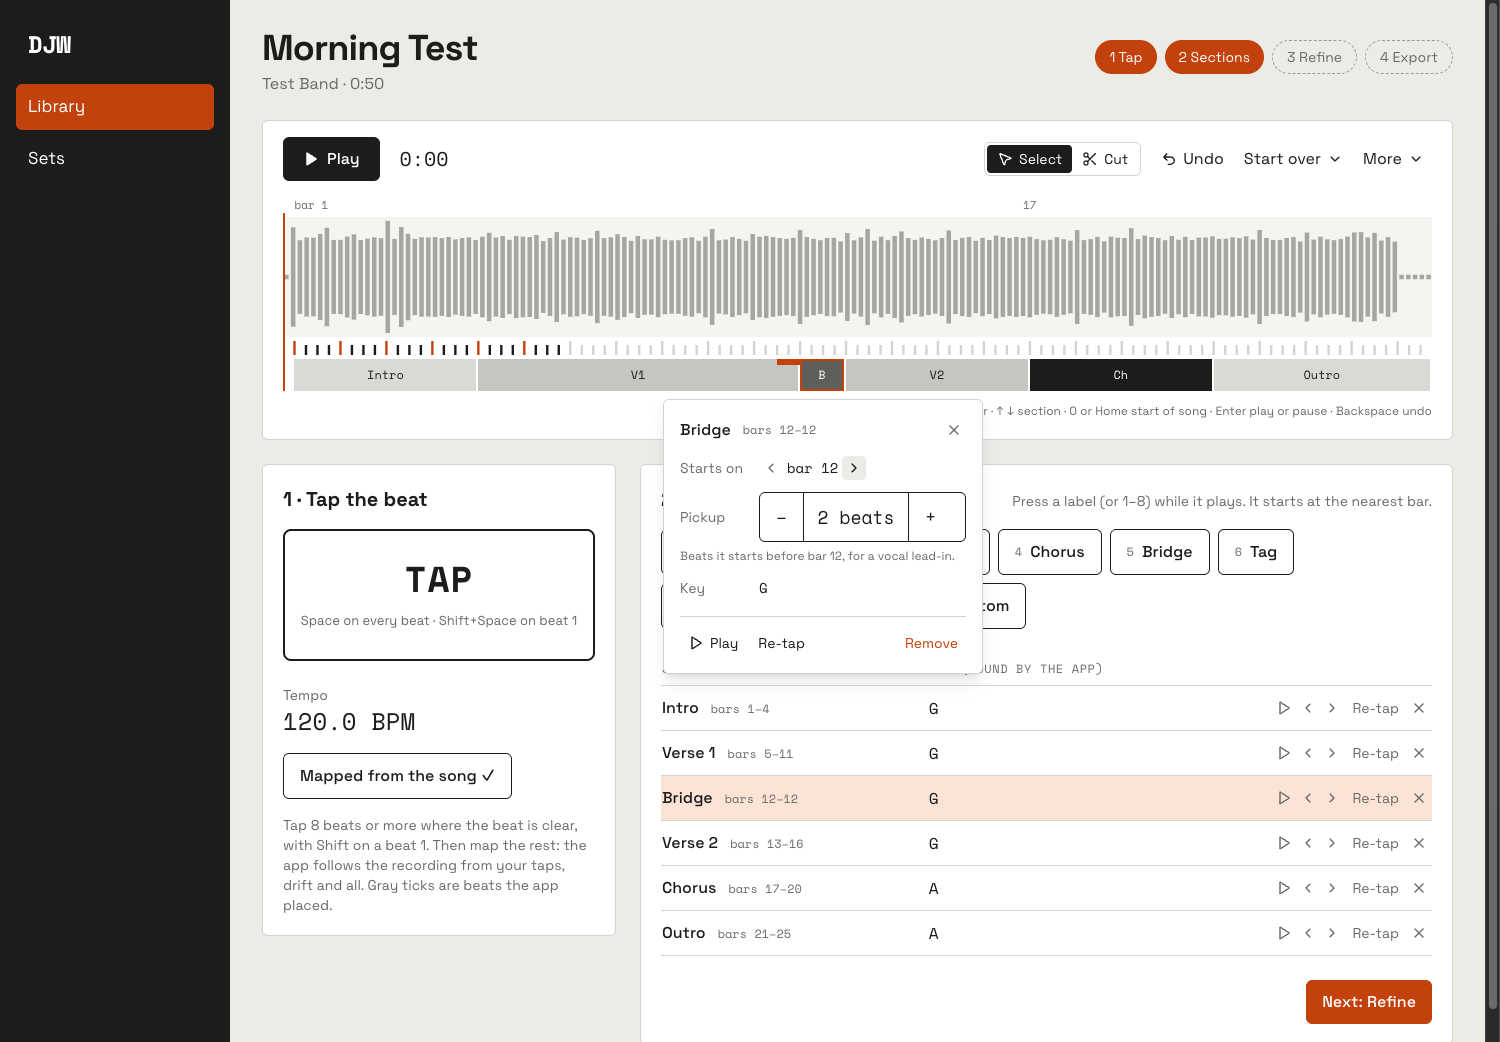
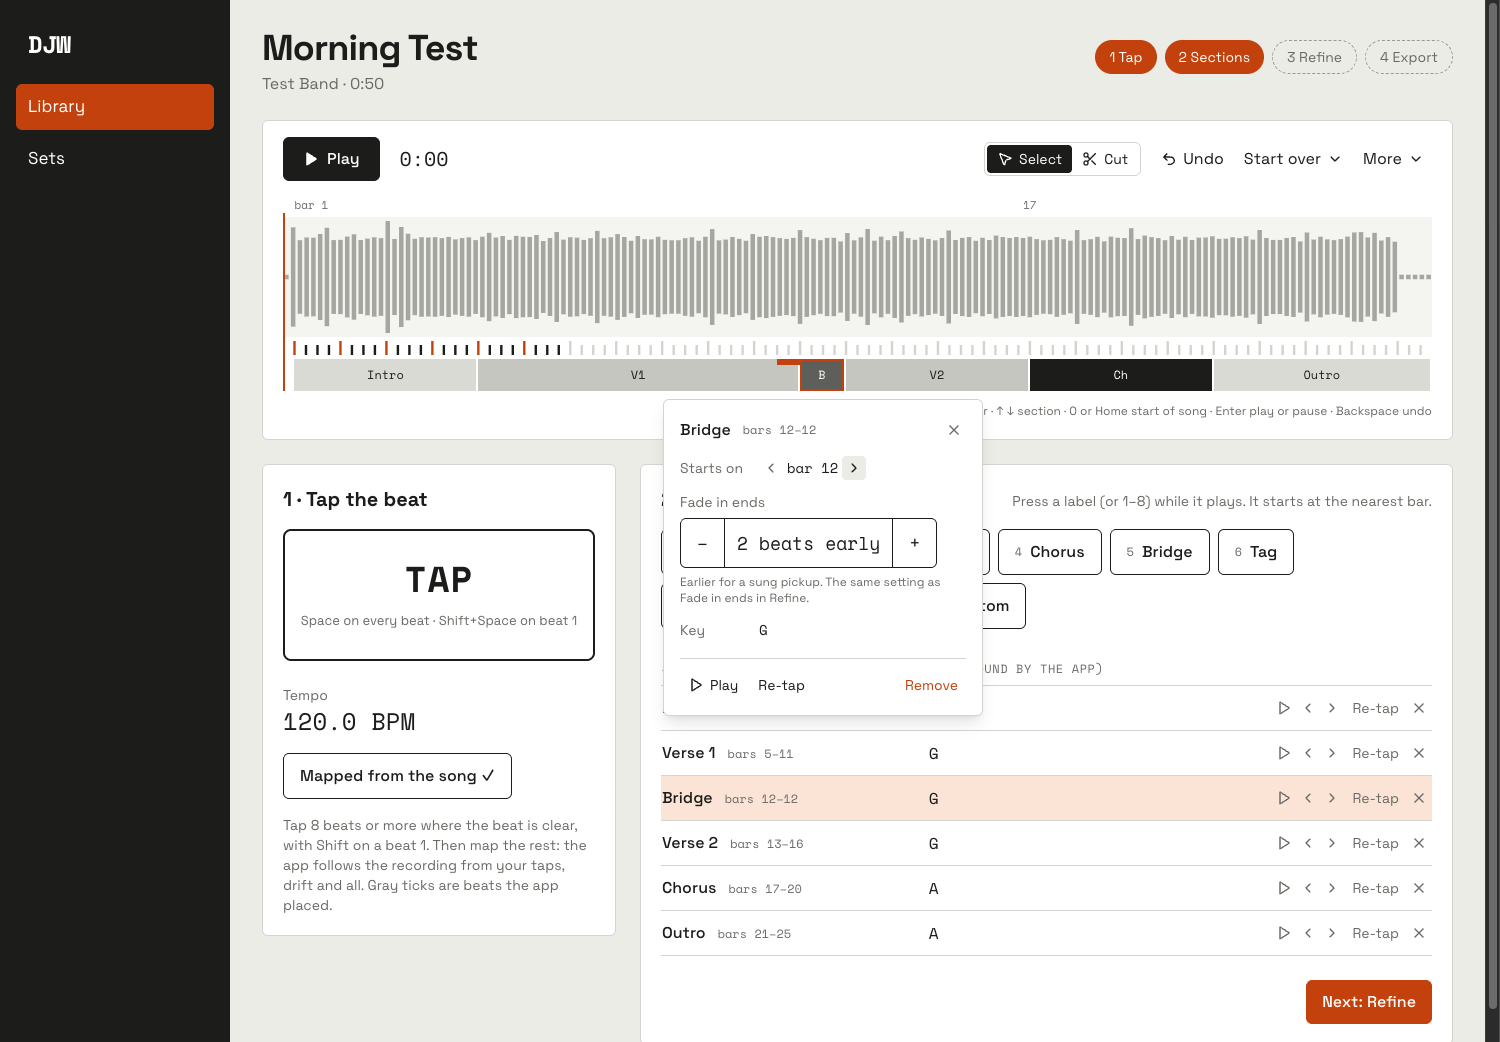
Show Tap's pickup as Refine's "Fade in ends"
The Tap screen's section panel called it "Pickup · 2 beats", and
Refine called the same setting "Fade in ends · 2 beats early". Both
already saved to the section's pickupBeats, but Refine always opened
on the first section, so a pickup set on the Chorus looked lost.

- The Tap panel now shows "Fade in ends" with Refine's wording and
  layout, and says it is the same setting.
- Refine opens on the section last opened on Tap, and remembers its
  own pick until the page reloads.
- The stepper's accessible name is "fade-in end" on both screens, to
  match "fade-out end".

Songs keep their values, since nothing about how they are stored
changed.

Changed region(s): [[0.4293, 0.4607, 0.644, 0.7063]]

diff --git a/src/screens/Refine.tsx b/src/screens/Refine.tsx
@@ -6,7 +6,7 @@ import { Button, Card, SongHeader, StepPills, Stepper, beatsLabel, useFrame } fr
 import { PerformSession, audio, loadBuffer, now, padSourceFor, perfSong, transport } from '../audio/engine';
 import { SECTION_TYPES, beatPos, beatTime, bpmOf, keysText, sectionViews, songGrid, songKeys, type Grid, type SectionView } from '../lib/songMap';
 import { fadeOutSpan, leadIn, seamEnd } from '../lib/performPlan';
-import { doneSteps, stepNav } from './SongTap';
+import { doneSteps, focusedSection, stepNav } from './SongTap';
 
 const JUMPS: Array<[JumpAt, string]> = [
   ['beat', 'Next beat'],
@@ -21,8 +21,12 @@ const clampBeats = (beats: number) => Math.min(MAX_BEATS, Math.max(0, beats));
 export function Refine({ song }: { song: Song }) {
   const store = useStore();
   const views = sectionViews(song);
-  const [selectedId, setSelectedId] = useState<string | null>(null);
+  const [selectedId, setSelectedId] = useState(() => focusedSection.get(song.id) ?? null);
   const view = views.find(item => item.section.id === selectedId) ?? views[0];
+  const select = (id: string) => {
+    focusedSection.set(song.id, id);
+    setSelectedId(id);
+  };
   const bpm = bpmOf(songGrid(song));
   const meta = [song.artist || 'Unknown artist', bpm ? `${Math.round(bpm)} BPM` : null, keysText(songKeys(song))].filter(Boolean).join(' · ');
 
@@ -68,7 +72,7 @@ export function Refine({ song }: { song: Song }) {
                 role="option"
                 aria-selected={selected}
                 className={`min-w-[7.5rem] flex-1 rounded-md border px-3 py-2 text-left ${selected ? 'border-2 border-accent bg-accent-soft' : sibling ? 'border-line bg-[#E4E4DF]' : 'border-line bg-white hover:bg-paper'}`}
-                onClick={() => setSelectedId(item.section.id)}
+                onClick={() => select(item.section.id)}
               >
                 <span className="block font-medium">{item.name}</span>
                 <span className="block font-mono text-xs text-muted">
@@ -187,7 +191,7 @@ function Seam({ song, view, onChange }: { song: Song; view: SectionView; onChang
         </div>
         <div>
           <p className="mb-1.5 text-sm font-medium">Fade in ends</p>
-          <Stepper name="pickup" value={pickup} min={0} max={MAX_BEATS} step={0.5} label={pickup ? `${beatsLabel(pickup)} early` : 'on the 1'} onChange={value => onChange({ pickupBeats: value })} />
+          <Stepper name="fade-in end" value={pickup} min={0} max={MAX_BEATS} step={0.5} label={pickup ? `${beatsLabel(pickup)} early` : 'on the 1'} onChange={value => onChange({ pickupBeats: value })} />
           <p className="mt-1.5 text-sm text-muted">Earlier for a sung pickup</p>
         </div>
       </div>

diff --git a/scripts/e2e.ts b/scripts/e2e.ts
@@ -218,7 +218,7 @@ async function main() {
     await clickAt(onStrip('Chorus 1'));
     await waitFor(`document.querySelector('[role=dialog][aria-label="Chorus 1 settings"]')`, 'select opens a section from the track');
     check('clicking a section does not move the playhead', (await ev<number>('__djw.engine.transport.position()')) === playhead);
-    for (let i = 0; i < 4; i++) await clickAt(inPanel('More pickup'));
+    for (let i = 0; i < 4; i++) await clickAt(inPanel('More fade-in end'));
     const pickupShare = `(() => { const bar = document.querySelector('[data-pickup="Chorus 1"]'); return bar && bar.getBoundingClientRect().width / bar.parentElement.getBoundingClientRect().width; })()`;
     await waitFor(`document.querySelector('[role=dialog]').innerText.includes('2 beats') && ${pickupShare}`, 'the pickup shows on the track');
     check('the pickup on the track is 2 beats long', Math.abs((await ev<number>(pickupShare)) - 1 / 50) < 0.002, await ev(pickupShare));
@@ -326,7 +326,7 @@ async function main() {
     await waitFor(`document.body.innerText.includes('Loop seam')`, 'refine screen');
     await clickAt(`[...document.querySelectorAll('[role=option]')].find(b => b.textContent.startsWith('Chorus 1'))`);
     await waitFor(`document.body.innerText.includes('Chorus 1 · bars 9–12')`, 'select Chorus 1');
-    for (let i = 0; i < 4; i++) await clickAt(`document.querySelector('[aria-label="More pickup"]')`);
+    for (let i = 0; i < 4; i++) await clickAt(`document.querySelector('[aria-label="More fade-in end"]')`);
     await clickAt(`document.querySelector('[aria-label="More repeats"]')`);
     await click('Next bar', 'label');
     check('pickup and repeats change', (await text()).includes('2 beats') && (await text()).includes('×2'));
@@ -361,7 +361,7 @@ async function main() {
     await page.send('Input.dispatchMouseEvent', { type: 'mousePressed', x: grip.x, y: grip.y, button: 'left', clickCount: 1 });
     await page.send('Input.dispatchMouseEvent', { type: 'mouseMoved', ...to, button: 'left', buttons: 1 });
     await page.send('Input.dispatchMouseEvent', { type: 'mouseReleased', ...to, button: 'left', clickCount: 1 });
-    await waitFor(`${stepped('fade in')} === '3 beats' && ${stepped('pickup')} === '2 beats early'`, 'dragging the fade-in start lengthens the fade');
+    await waitFor(`${stepped('fade in')} === '3 beats' && ${stepped('fade-in end')} === '2 beats early'`, 'dragging the fade-in start lengthens the fade');
     await ev(`${dot('Fade-in start')}.focus()`);
     for (let i = 0; i < 4; i++) await press('ArrowRight');
     await waitFor(`${stepped('fade in')} === '1 beat'`, 'arrow keys move a dot by half a beat');

diff --git a/src/screens/SongTap.tsx b/src/screens/SongTap.tsx
@@ -34,6 +34,9 @@ const TOOLS = [
   ['cut', 'Cut', Scissors, 'C', 'Click a section to split it at the nearest bar'],
 ] as const;
 
+/** The section last opened on Tap or Refine, by song id, so the other screen opens on the same one. */
+export const focusedSection = new Map<string, string>();
+
 export function stepNav(song: Song) {
   return (step: StepName) => go({ page: 'song', id: song.id, step: step === 'sections' ? 'tap' : step });
 }
@@ -86,6 +89,7 @@ export function SongTap({ song }: { song: Song }) {
 
   useEffect(() => {
     if (!selectedId) return;
+    focusedSection.set(song.id, selectedId);
     const close = (event: MouseEvent) => {
       if (!trackRef.current?.contains(event.target as Node)) setSelectedId(null);
     };
@@ -515,9 +519,19 @@ function SectionInspector({ song, view, save, loaded, onRetap, onClose }: Edit &
             <ChevronRight className="h-4 w-4" />
           </button>
         </div>
-        <span className="text-muted">Pickup</span>
-        <Stepper name="pickup" value={pickupBeats} min={0} max={16} step={0.5} label={beatsLabel(pickupBeats)} onChange={value => save(patched(song, view, { pickupBeats: value }))} />
-        <p className="col-span-2 -mt-1.5 text-xs text-muted">Beats it starts before bar {view.s + 1}, for a vocal lead-in.</p>
+        <div className="col-span-2">
+          <p className="mb-1.5 text-muted">Fade in ends</p>
+          <Stepper
+            name="fade-in end"
+            value={pickupBeats}
+            min={0}
+            max={16}
+            step={0.5}
+            label={pickupBeats ? `${beatsLabel(pickupBeats)} early` : 'on the 1'}
+            onChange={value => save(patched(song, view, { pickupBeats: value }))}
+          />
+          <p className="mt-1.5 text-xs text-muted">Earlier for a sung pickup. The same setting as Fade in ends in Refine.</p>
+        </div>
         <span className="text-muted">Key</span>
         <div>
           <KeySelect song={song} view={view} save={save} />
